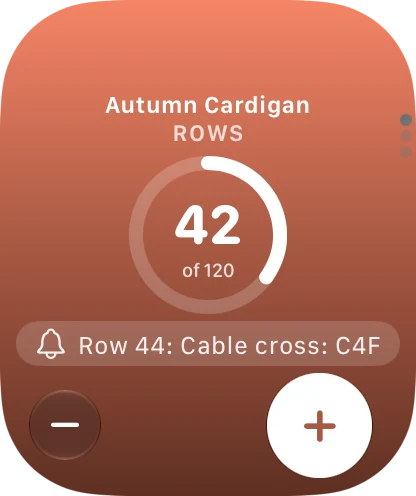
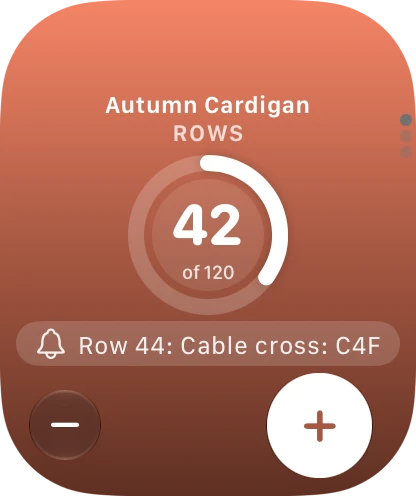
redirects

diff --git a/assets/css/style.css b/assets/css/style.css
@@ -955,7 +955,8 @@ body { overflow-x: clip; }
 }
 #features > .container::before { width: 620px; height: 520px; left: -240px; top: 4%; background: color-mix(in srgb, var(--periwinkle) 22%, transparent); }
 #features > .container::after { width: 560px; height: 480px; right: -260px; bottom: -60px; background: color-mix(in srgb, var(--coral) 16%, transparent); }
-.mini-counter { width: min(300px, 56%); }
+/* As wide as its reminder needs (the German one ran out of the card), at least as before. */
+.mini-counter { width: max-content; min-width: min(300px, 56%); max-width: 100%; }
 .mc-reminder { white-space: nowrap; }
 
 /* No colored glow under the highlights after all: their normal soft shadow. */
@@ -1101,3 +1102,13 @@ main > section { overflow-x: clip; }
 /* The comparison's labels in the top corners, over the sky, so they cover nothing of the motif. */
 .compare-label { bottom: auto; top: 12px; }
 @media (max-width: 820px) { .compare-label { top: 8px; } }
+
+/* Phones: a calmer start page. The hero keeps the App Store badge as its one action (the
+   features follow right below anyway), the device line repeats the lead text, and the feature
+   cards show their title and one sentence; the details are in the screenshots further down. */
+@media (max-width: 600px) {
+    .hero-icon { width: 88px; height: 88px; }
+    .hero .button-secondary, .hero .platforms { display: none; }
+    .hero .trust { font-size: 0.85rem; gap: 6px 14px; }
+    .feature-grid .card ul, .feature-grid .mini-counter { display: none; }
+}
